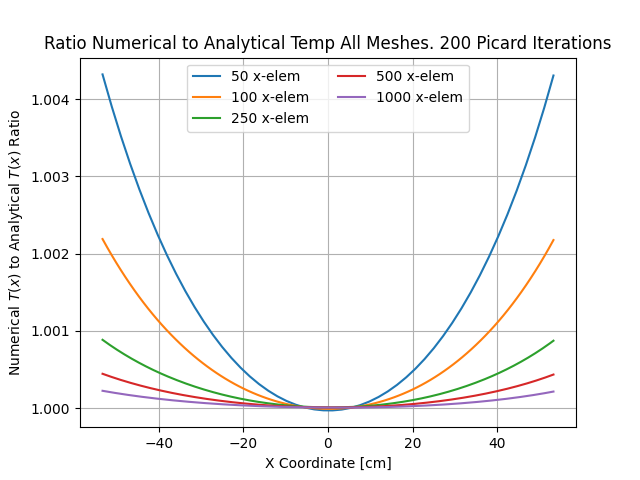
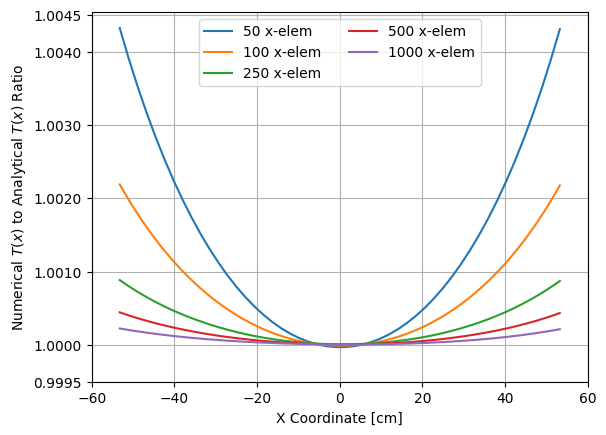
plotting improvement suggestions from April

diff --git a/simulations/visualization/no_ss_no_mesh_template_flux_relaxation_on/visualize_results.py b/simulations/visualization/no_ss_no_mesh_template_flux_relaxation_on/visualize_results.py
@@ -30,7 +30,7 @@ plt.yticks(np.linspace(-6,-10,6))
 # plt.ticklabel_format(axis='y', style='sci', scilimits=(0,0))
 plt.xlabel(r"Log of number of X elements $\log(N)$")
 plt.ylabel(r"Log of Error Norm $log(\epsilon_{T})$")
-plt.title("Temperature Error Norm vs Mesh Size \n 200 Picard Iterations",y=1)
+# plt.title("Temperature Error Norm vs Mesh Size \n 200 Picard Iterations",y=1)
 plt.legend(bbox_to_anchor=[0.985,0.985],fontsize=14)
 plt.grid()
 plt.savefig("temp_error_norms.png")
@@ -93,12 +93,17 @@ for n in n_elems:
     xx[n] = np.linspace(-L/2,L/2,n)
     temps[n] = pd.read_csv(f"openmc_{n}_temp.csv").loc[:,"temp"]
     cardinal_fluxes[n] = pd.read_csv(f"openmc_{n}_flux.csv").loc[:,"flux"]
-    # plt.plot(xx[n],temps[n])
-    # plt.xlabel("X coordinate [cm]")
-    # plt.ylabel("Temperature [K]")
+    if(n==50):
+        plt.plot(xx[n],temps[n],'-ro')
+    else:
+        plt.plot(xx[n],temps[n])
+    plt.xticks([-60,-40,-20,0,20,40,60])
+    plt.xlabel("X coordinate [cm]")
+    plt.ylabel("Temperature [K]")
     # plt.title(f"Temperature for {n} Mesh Elements")
-    # plt.savefig(f"temp_{n}.png")
-    # plt.clf()
+    plt.grid()
+    plt.savefig(f"temp_{n}.png")
+    plt.clf()
 
 # dictioinaries for flux results and comparisons to temp and analytical solution key is number of elements
 ratios_T_to_phi = {} # list of ratios of temp to flux for each element
@@ -120,22 +125,26 @@ for n in n_elems:
         ratios_temp_num_to_analy[n].append(float(temps[n][i]/analytical_T[n][i]))
     # numerical to analytical ratio
     plt.plot(xx[n],ratios_flux_num_to_analy[n],'-go',label=f"{n} x-elem")
+    plt.xticks([-60,-40,-20,0,20,40,60])
     plt.xlabel("X Coordinate [cm]")
     plt.ylabel(r"Numerical $\phi(x)$ to Analytical $\phi(x)$ Ratio")
     plt.title(f"Ratio Numerical to Analytical Flux {n} Mesh Elements")
     plt.legend()
+    plt.grid()
     plt.savefig(f"num_to_analytical_flux_{n}.png")
     plt.clf()
 
 # plot all temp error ratios on one plot
 for n in n_elems:
     plt.plot(xx[n],ratios_temp_num_to_analy[n],label=f"{n} x-elem")
+plt.xticks([-60,-40,-20,0,20,40,60])
+plt.yticks([0.9995,1.000,1.001,1.002,1.003,1.004,1.0045])
 plt.xlabel("X Coordinate [cm]")
 plt.ylabel(r"Numerical $T(x)$ to Analytical $T(x)$ Ratio")
-plt.title(f"Ratio Numerical to Analytical Temp All Meshes. 200 Picard Iterations")
+# plt.title(f"Ratio Numerical to Analytical Temp All Meshes. 200 Picard Iterations")
 plt.legend(ncol=2)
 plt.grid()
-plt.savefig("temp_num_to_analy_ratios.png")
+plt.savefig("temp_num_to_analy_ratios.png",bbox_inches='tight')
 plt.clf()
 
 # compute error norm
@@ -176,17 +185,19 @@ for n in n_elems:
     # plt.title("Tallied Flux (Units Converted Using SS)")
     # plt.grid()
     # plt.savefig(f"flux_{n}.png")
-    plt.clf()
+    # plt.clf()
 
 # plot all flux error ratios on one plot
 for n in n_elems:
     plt.plot(xx[n],ratios_flux_num_to_analy[n],label=f"{n} x-elem")
+plt.xticks([-60,-40,-20,0,20,40,60])
+plt.yticks([0.9995,1.000,1.001,1.002,1.003,1.004,1.0045])
 plt.xlabel("X Coordinate [cm]")
 plt.ylabel(r"Numerical $\phi(x)$ to Analytical $\phi(x)$ Ratio")
-plt.title("Ratio Numerical to Analytical Flux All Meshes. 200 Picard Iterations")
+# plt.title("Ratio Numerical to Analytical Flux All Meshes. 200 Picard Iterations")
 plt.legend(ncol=2)
 plt.grid()
-plt.savefig("flux_num_to_analy_ratios.png")
+plt.savefig("flux_num_to_analy_ratios.png",bbox_inches='tight')
 plt.clf()
 
 # # plot individual C/E with error bars
@@ -219,6 +230,7 @@ plt.clf()
 
 
 log_flux_error_norms = [np.log(flux_error_norms[n]) for n in n_elems]
+print(log_flux_error_norms)
 # linear polynomial fit to get slope of line of best fit
 pf = np.polyfit(log_N,log_flux_error_norms,1)
 print("polyfit:" , pf)
@@ -226,7 +238,7 @@ print("polyfit:" , pf)
 plt.plot(log_N,log_flux_error_norms,'-o',label=r'$\epsilon_{\phi}=\frac{||\phi_{a} - \phi_{x} ||_{2}}{|| \phi_{a} ||_{2}}$')
 plt.xlabel(r"Log of number of X elements $\log(N)$")
 plt.ylabel(r"Log of Error Norm $log(\epsilon_{\phi})$")
-plt.title("Flux Error Norm vs Mesh Size \n 200 Picard Iterations with Relaxation")
+# plt.title("Flux Error Norm vs Mesh Size \n 200 Picard Iterations with Relaxation")
 plt.yticks(np.linspace(-6,-10,6))
 plt.grid()
 plt.legend(bbox_to_anchor=[0.985,0.985],fontsize=14)
